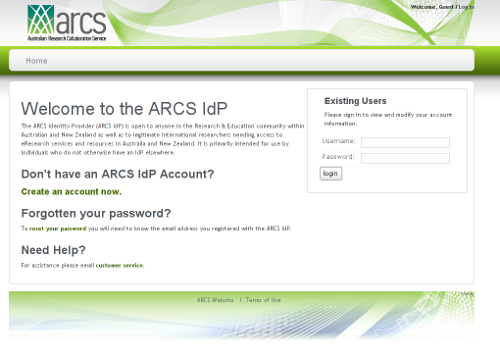
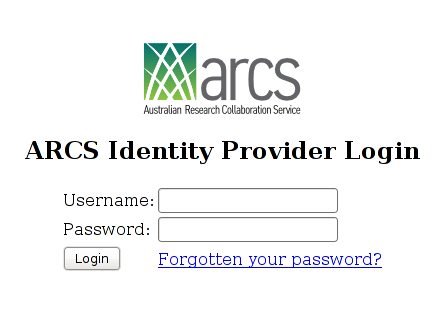
added details about the idp

diff --git a/source/basic.rst b/source/basic.rst
@@ -89,6 +89,17 @@ AAF Authentication
    apply for an account through the `ARCS Identity Provider
    <http://https://idp.arcs.org.au/idp_reg/>`_
 
+.. image:: images/idp_arcs.png
+   :alt: ARCS IDP
+   :align: center
+
+.. note::
+
+   This is a screen shot of the ARCS Idp login page, you institutions
+   will look different.
+
+5. Enter you Institutional/Organisational credentials and login.
+
 
 To log out of the portal
 ------------------------
@@ -103,8 +114,6 @@ link the bottom right, and then read the instructions under 'Forgot your
 password?'. Follow these steps to try and change your password.
 
 If you still can't log in, then contact your site administrator for assistance.
-
-
 
 
 Using the Dashboard
